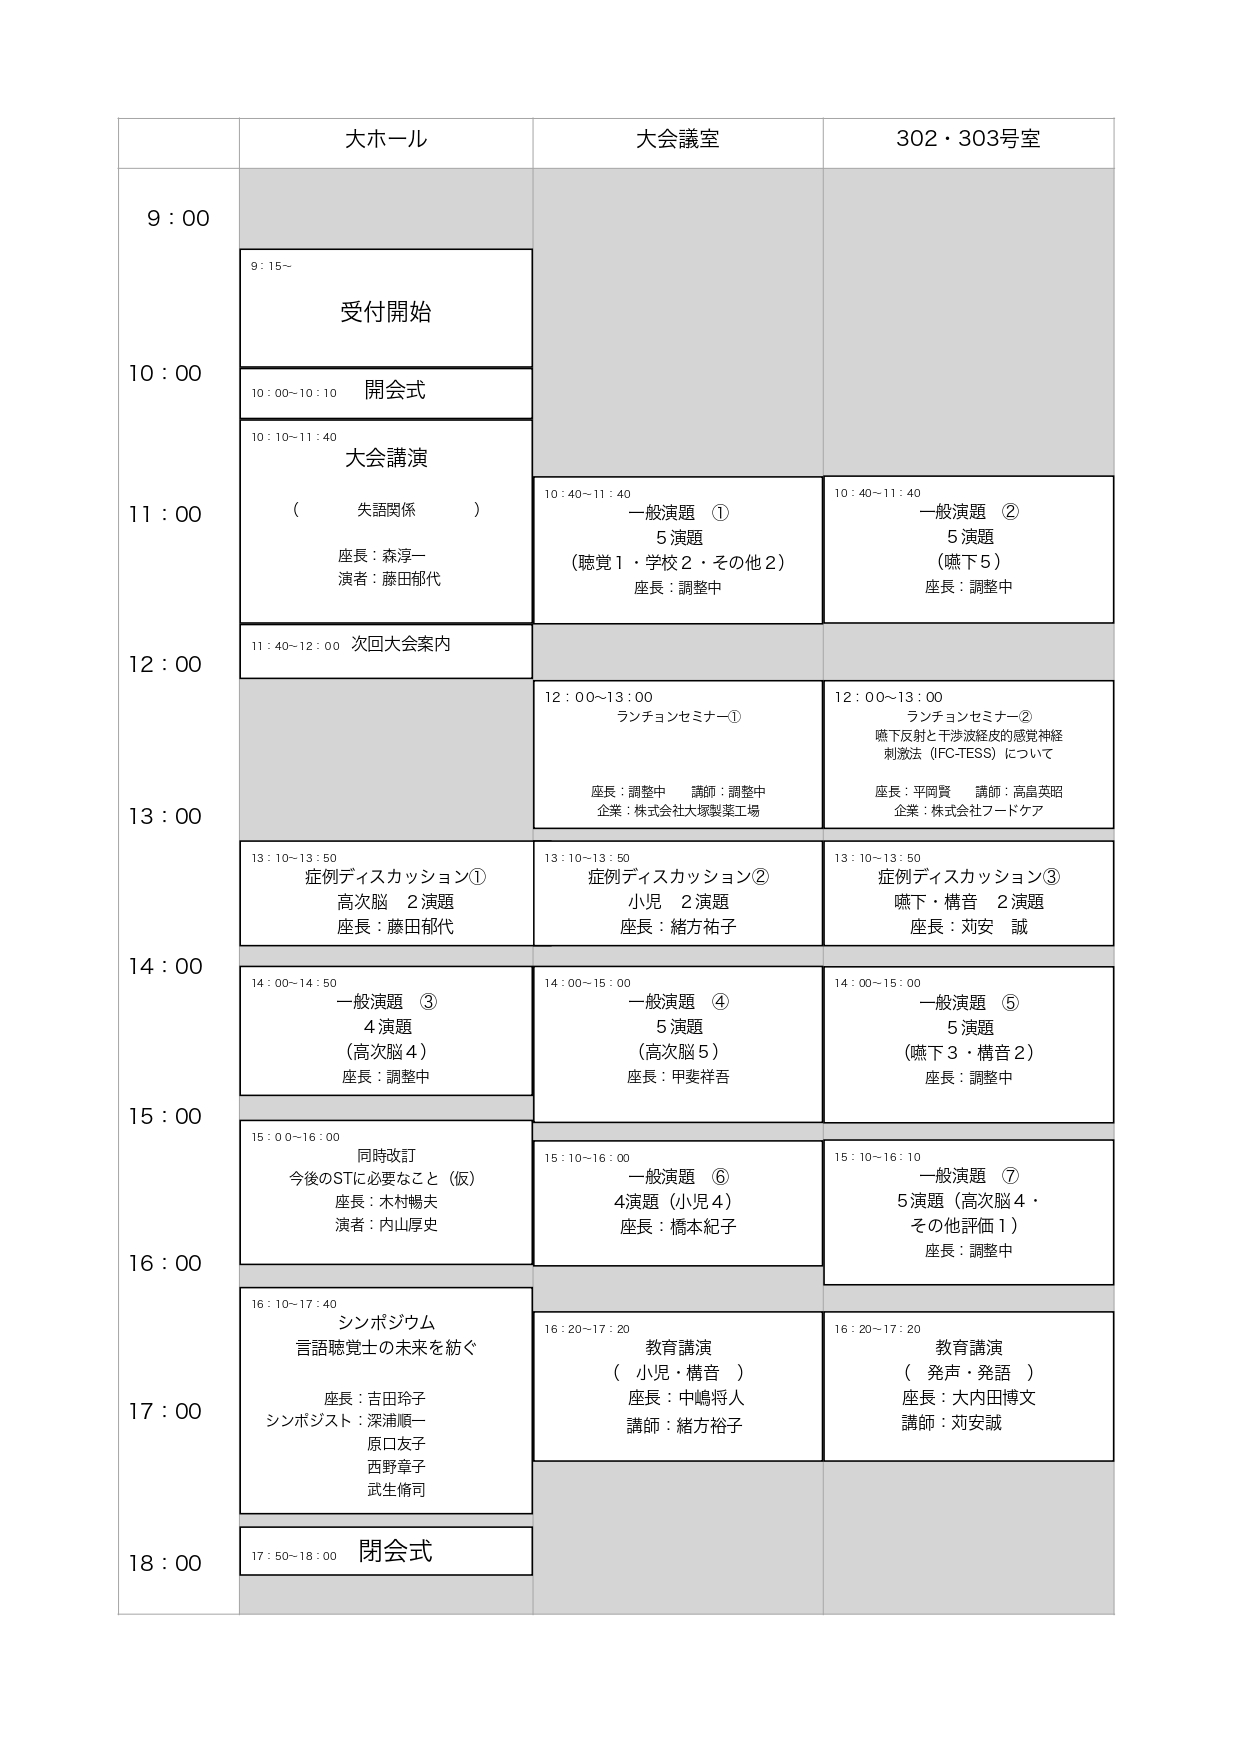
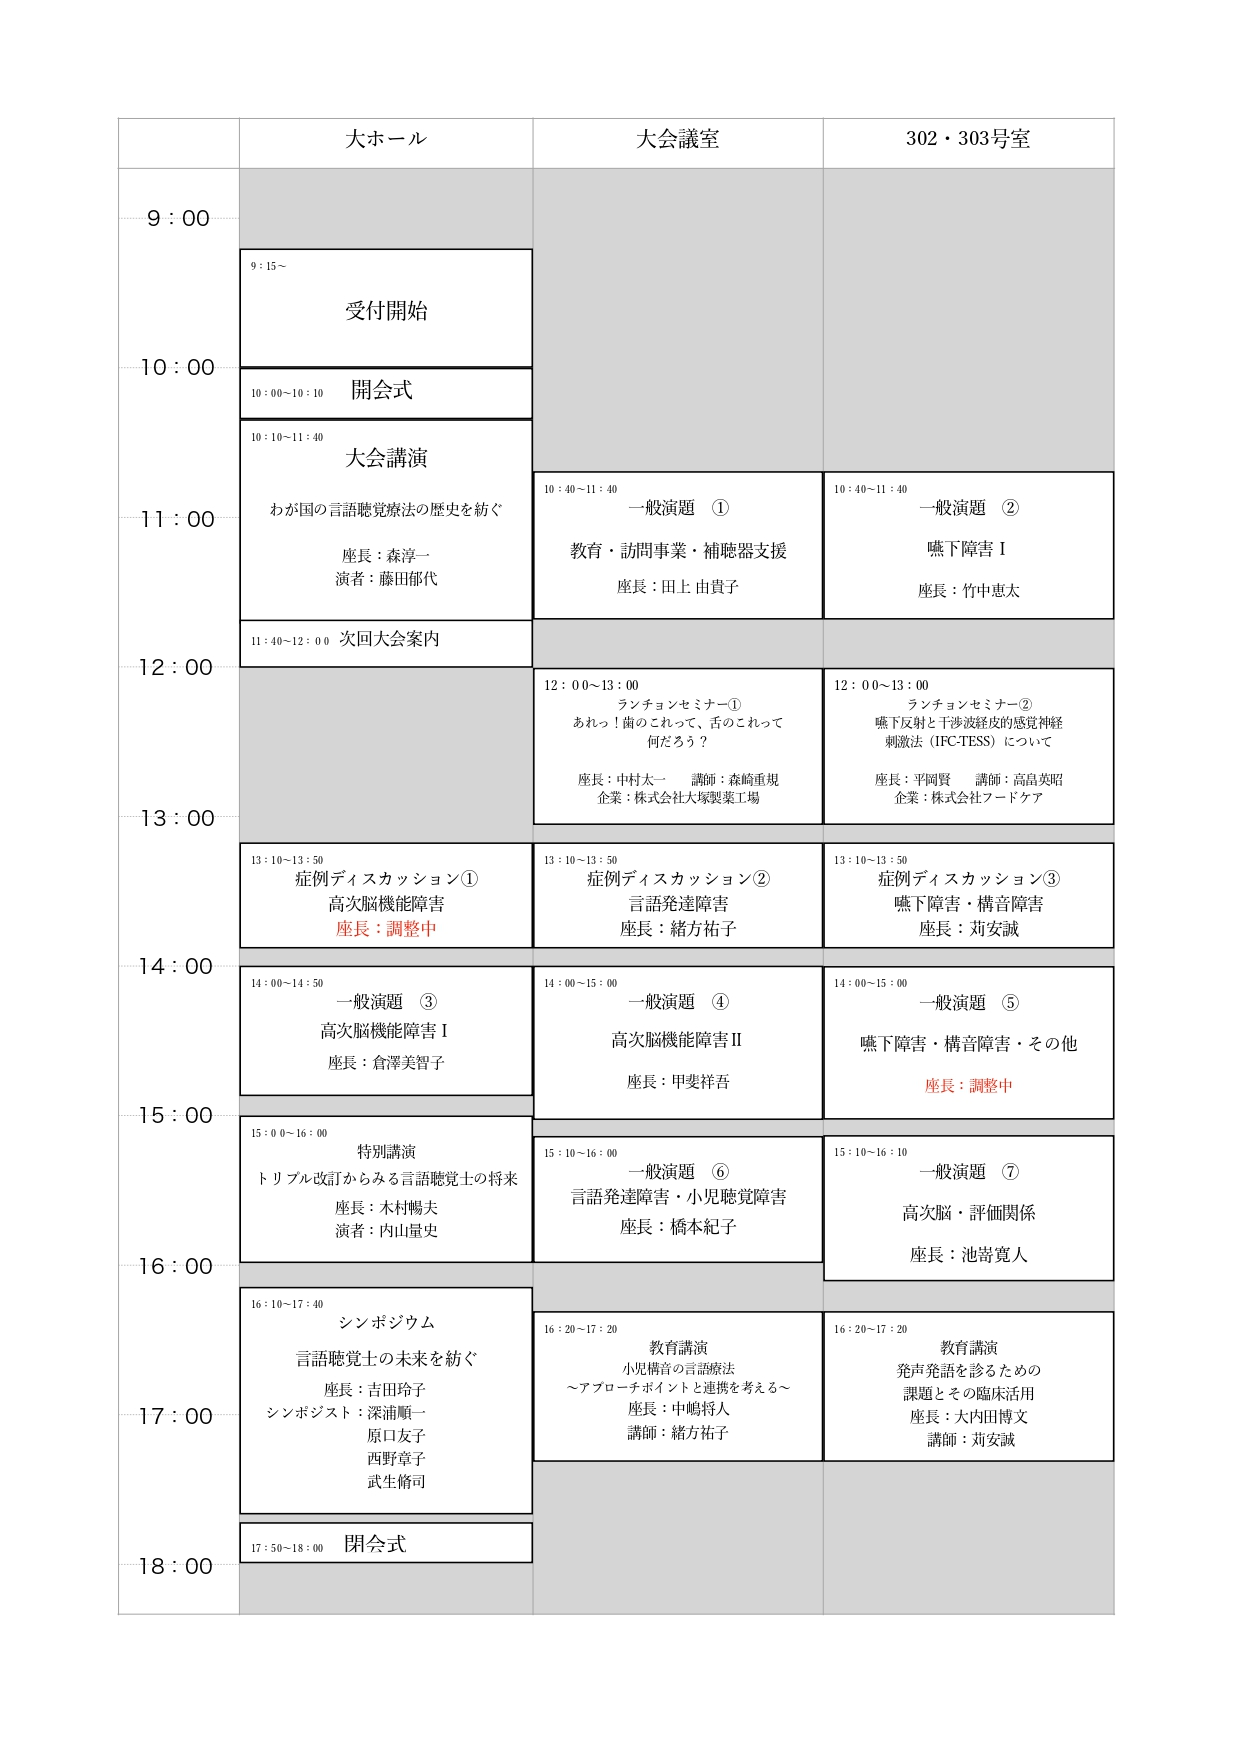
追加要件と微修正

diff --git a/st-society-oita/src/components/AboutTheSocialGathering.tsx b/st-society-oita/src/components/AboutTheSocialGathering.tsx
@@ -1,0 +1,81 @@
+import React from "react";
+import ImageDialog from "../dialog/ImageDialog";
+import { Box, Grid, ListItemText, Typography } from "@mui/material";
+import SocialGathering from "../assets/socialGathering/socialGathering.jpg";
+import { useInView } from "react-intersection-observer";
+import "animate.css";
+export interface bookParam {
+  id: number;
+  image: string;
+}
+const bookList = [
+  {
+    id: 1,
+    image: SocialGathering,
+  },
+];
+function AboutTheSocialGathering() {
+  const { ref, inView } = useInView({
+    // オプション
+    rootMargin: "-50px", // ref要素が現れてから50px過ぎたら
+    triggerOnce: true, // 最初の一度だけ実行
+  });
+  return (
+    <Box className="Schedule" id="item_5" ref={ref} mb={10}>
+      {inView && (
+        <Grid
+          container
+          flexDirection="column"
+          textAlign="center"
+          alignItems="center"
+          sx={{ mx: "auto" }}
+          className="animate__animated animate__fadeInUp"
+        >
+          <Grid item>
+            <ListItemText
+              primary="懇親会について"
+              primaryTypographyProps={{
+                variant: "h4",
+              }}
+              secondary=""
+              secondaryTypographyProps={{ color: "secondary", variant: "h6" }}
+            />
+            <Box>
+              <Typography variant="h6" color="secondary" textAlign={"start"}>
+                会場：ホテル日航オアシスタワー
+              </Typography>
+              <Typography variant="h6" color="secondary" textAlign={"start"}>
+                日時：1 月 27 日(土)　 18:30~20:30
+              </Typography>
+              <Typography variant="h6" color="secondary" textAlign={"start"}>
+                定員：80 名
+              </Typography>
+              <Typography variant="h6" color="secondary" textAlign={"start"}>
+                費用：6000 円
+              </Typography>
+            </Box>
+          </Grid>
+          <Grid item>
+            <Box>
+              <Grid
+                container
+                direction="row"
+                justifyContent="space-evenly"
+                alignItems="center"
+                mx="auto"
+              >
+                {bookList.map((item, index) => (
+                  <Grid item key={index} xs={10} md={6}>
+                    <ImageDialog {...item} />
+                  </Grid>
+                ))}
+              </Grid>
+            </Box>
+          </Grid>
+        </Grid>
+      )}
+    </Box>
+  );
+}
+
+export default AboutTheSocialGathering;

diff --git a/st-society-oita/src/Main.tsx b/st-society-oita/src/Main.tsx
@@ -10,6 +10,7 @@ import Registration from "./components/Registration";
 import Downloads from "./components/Downloads";
 import AbstractRegistration from "./components/AbstractRegistration";
 import AbstractRegistResult from "./components/AbstractRegistResult";
+import AboutTheSocialGathering from "./components/AboutTheSocialGathering";
 import Inquiry from "./components/Inquiry";
 import Advertisement from "./components/Advertisement";
 import InstagramIcon from "@mui/icons-material/Instagram";
@@ -61,6 +62,7 @@ function Main(props: Props) {
           "参加登録", // id:6
           "演題登録", // id:7
           "演題登録採択結果", // id:7
+          "懇親会について", // id:7
           "各種ダウンロード", // id:8
           "問い合わせ", // id:9
           "広告", // id:10
@@ -242,6 +244,9 @@ function Main(props: Props) {
               </Grid>
               <Grid item>
                 <AbstractRegistResult />
+              </Grid>
+              <Grid item>
+                <AboutTheSocialGathering />
               </Grid>
               <Grid item>
                 <Downloads />

diff --git a/st-society-oita/src/components/Program.tsx b/st-society-oita/src/components/Program.tsx
@@ -32,7 +32,7 @@ const Programs: LectureContent[] = [
     performerImage: Performer2,
     programInfo: [
       { textType: 0, text: "教育講演" },
-      { textType: 1, text: "発声・発語領域の最新の知見（仮）" },
+      { textType: 1, text: "発声発語を診るための課題とその臨床活用" },
 
       {
         textType: 3,
